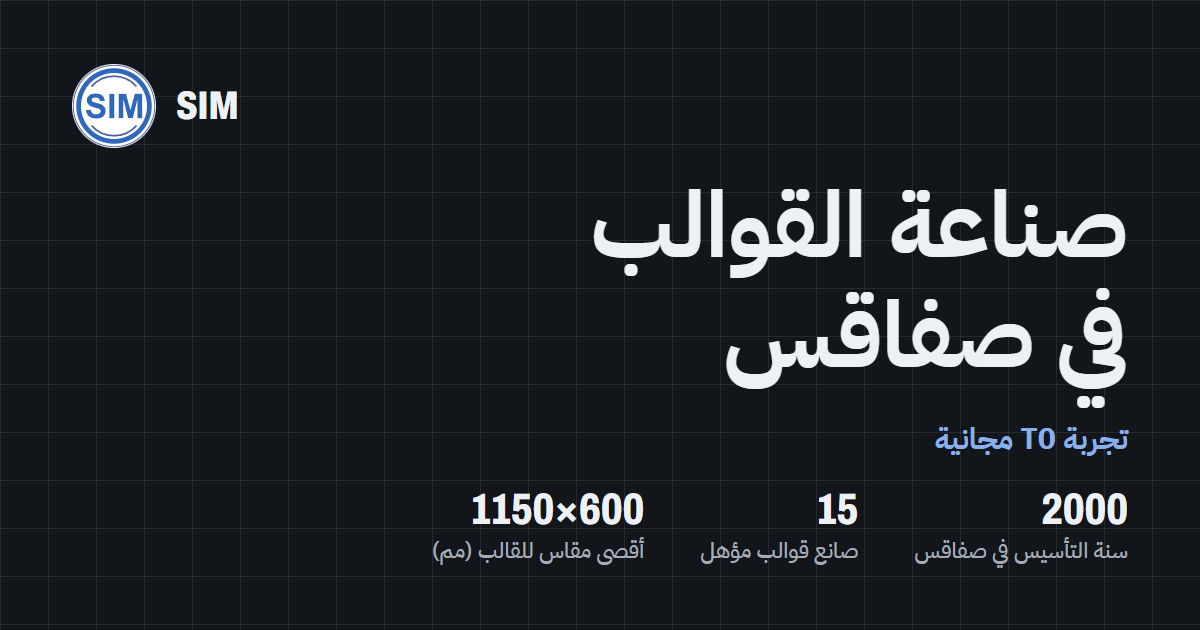
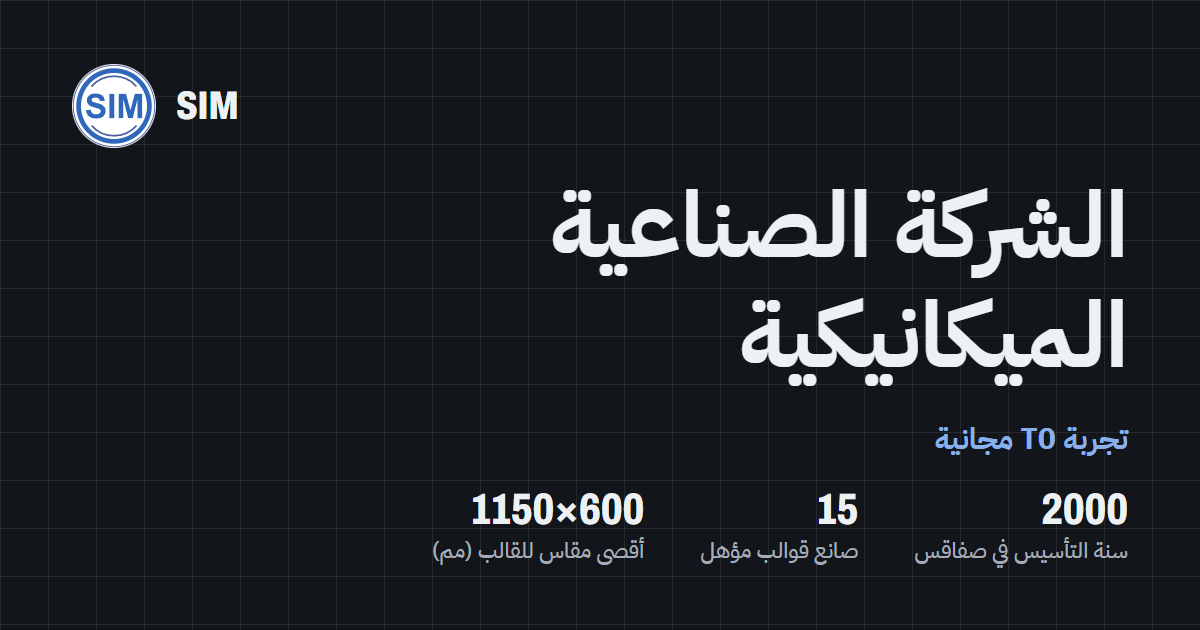
Use the company name as the home headline; simplify the process heading
- Home H1 is now Société Industrielle Mécanique (Arabic: the company
  name in Arabic); the mold-maker keyword moves into the lead sentence
  and stays in the page title.
- Remove the mold/part image frame from "Du plan à la pièce".
- Request a larger source for cover-cropped part photos, so the
  bottles tile is no longer upscaled and blurry.
- Rename the lid part to the wet-wipe lid (fr/en/ar).
- Update both share images to the new headline.

Changed region(s): [[0.4625, 0.3016, 0.9558, 0.6635]]

diff --git a/components/sections.tsx b/components/sections.tsx
@@ -285,7 +285,7 @@ export function CatalogueRows({ items, d, headingLevel = 3 }: { items: Catalogue
             {it.part && (
               <figure className="reveal reveal-2">
                 <div className="aspect-[3/2] overflow-hidden bg-white">
-                  <Photo k={it.part} alt={it.partAlt ?? ""} sizes="(min-width: 1024px) 28vw, 50vw" fit={it.partFit ?? "contain"} className="zoom-img" />
+                  <Photo k={it.part} alt={it.partAlt ?? ""} sizes={it.partFit === "cover" ? "(min-width: 1024px) 40vw, 100vw" : "(min-width: 1024px) 28vw, 50vw"} fit={it.partFit ?? "contain"} className="zoom-img" />
                 </div>
                 <figcaption className="mt-2 text-small text-muted">{d.common.part}</figcaption>
               </figure>
@@ -343,12 +343,7 @@ export function Process({ d }: { d: Dict }) {
     <section className="on-paper bg-paper text-graphite">
       <div className="px-[var(--m)] py-24 lg:py-36">
         <h2 className="display reveal text-display">
-          {p.titleStart}{" "}
-          <span className="swap" aria-hidden="true">
-            <Photo k="moldUnscrewing" alt="" sizes="160px" />
-            <Photo k="partCaps" alt="" sizes="160px" fit="contain" className="bg-white" />
-          </span>{" "}
-          {p.titleEnd}
+          {p.titleStart} {p.titleEnd}
         </h2>
         <p className="reveal reveal-2 mt-8 max-w-[52ch] text-lead text-slate">{p.intro}</p>
         <ol className="mt-16 grid gap-x-8 gap-y-12 sm:grid-cols-2 lg:mt-20 lg:grid-cols-3 xl:grid-cols-6">
@@ -508,7 +503,11 @@ export function PartsGallery({
                   <Photo
                     k={it.k}
                     alt={it.alt}
-                    sizes="(min-width: 1280px) 16vw, (min-width: 768px) 33vw, 50vw"
+                    sizes={
+                      it.fit === "cover"
+                        ? "(min-width: 1280px) 36vw, (min-width: 768px) 70vw, 100vw"
+                        : "(min-width: 1280px) 16vw, (min-width: 768px) 33vw, 50vw"
+                    }
                     fit={it.fit ?? "contain"}
                     className={`zoom-img ${it.fit === "cover" ? "" : "p-3"}`}
                   />

diff --git a/content/ar.ts b/content/ar.ts
@@ -106,8 +106,8 @@ export const ar: Dict = {
   },
 
   home: {
-    h1: "صناعة القوالب في صفاقس",
-    lead: "قوالب حقن البلاستيك وقوالب النفخ، نصمّمها ونشغّلها في ورشتنا، من الرسم إلى أول قطعة.",
+    h1: "الشركة الصناعية الميكانيكية",
+    lead: "صناعة قوالب حقن البلاستيك وقوالب النفخ، نصمّمها ونشغّلها في ورشتنا بصفاقس، من الرسم إلى أول قطعة.",
     t0Strong: "تجربة T0 مجانية",
     t0Rest: "على مكبسنا بقوة 180 طنًا: تصادق على قطع حقيقية قبل أي تعديل.",
     heroAlt: "قالب حقن بفكّ اللولبة مع محرّك وسلسلة نقل، من صنع SIM في صفاقس",
@@ -379,7 +379,7 @@ export const ar: Dict = {
     parts: [
       { image: "partValve", name: "صمّام", alt: "صمّام بلاستيكي محقون في قالب SIM" },
       { image: "partSprinkler", name: "رشّاش ري", alt: "رشّاش ري بلاستيكي متعدد القطع" },
-      { image: "partLid", name: "غطاء", alt: "غطاء بلاستيكي محقون" },
+      { image: "partLid", name: "غطاء علبة المناديل المبللة", alt: "غطاء علبة مناديل مبللة محقون" },
       { image: "cavities", name: "تجاويف متعدّدة", alt: "تشغيل إدخال بتجاويف متعدّدة" },
     ],
   },

diff --git a/app/globals.css b/app/globals.css
@@ -294,56 +294,6 @@ a:hover > .arrow-flip {
   transform: rotate(180deg);
 }
 
-/* ── Mold → part frame inside the process heading ─────────────────────── */
-
-.swap {
-  position: relative;
-  display: inline-block;
-  width: 1.9em;
-  height: 0.78em;
-  vertical-align: -0.02em;
-  overflow: hidden;
-  background: var(--color-paper-2);
-}
-
-.swap img {
-  position: absolute;
-  inset: 0;
-  width: 100%;
-  height: 100%;
-  object-fit: cover;
-}
-
-.swap img + img {
-  opacity: 0;
-}
-
-@media (prefers-reduced-motion: no-preference) {
-  .swap img {
-    animation: swap-a 7s cubic-bezier(0.65, 0, 0.35, 1) infinite;
-  }
-  .swap img + img {
-    animation-name: swap-b;
-  }
-}
-
-@media (prefers-reduced-motion: reduce) {
-  .swap img { width: 50%; }
-  .swap img + img { left: 50%; opacity: 1; }
-}
-
-@keyframes swap-a {
-  0%, 40% { opacity: 1; transform: scale(1); }
-  50%, 90% { opacity: 0; transform: scale(1.06); }
-  100% { opacity: 1; transform: scale(1); }
-}
-
-@keyframes swap-b {
-  0%, 40% { opacity: 0; transform: scale(1.06); }
-  50%, 90% { opacity: 1; transform: scale(1); }
-  100% { opacity: 0; transform: scale(1.06); }
-}
-
 /* ── Entrances (scroll-driven, CSS only; content is visible without support) */
 
 @media (prefers-reduced-motion: no-preference) {

diff --git a/content/fr.ts b/content/fr.ts
@@ -110,8 +110,8 @@ export const fr = {
   },
 
   home: {
-    h1: "Fabricant de moules à Sfax",
-    lead: "Moules d’injection plastique et de soufflage, conçus et usinés dans notre atelier, du plan à la première pièce.",
+    h1: "Société Industrielle Mécanique",
+    lead: "Fabricant de moules d’injection plastique et de soufflage, conçus et usinés dans notre atelier de Sfax, du plan à la première pièce.",
     t0Strong: "Essai T0 offert",
     t0Rest: "sur notre presse de 180 tonnes : vous validez de vraies pièces avant toute correction.",
     heroAlt: "Moule d’injection à dévissage avec motoréducteur et chaîne, fabriqué par SIM à Sfax",
@@ -465,7 +465,7 @@ export const fr = {
     parts: [
       { image: "partValve" as ImageKey, name: "Vanne", alt: "Vanne plastique injectée dans un moule SIM" },
       { image: "partSprinkler" as ImageKey, name: "Arroseur", alt: "Arroseur plastique multi-pièces injecté" },
-      { image: "partLid" as ImageKey, name: "Couvercle", alt: "Couvercle plastique injecté" },
+      { image: "partLid" as ImageKey, name: "Couvercle de lingettes", alt: "Couvercle de boîte à lingettes injecté" },
       { image: "cavities" as ImageKey, name: "Empreintes multi-cavités", alt: "Usinage d’un insert multi-empreintes" },
     ],
   },

diff --git a/content/en.ts b/content/en.ts
@@ -106,8 +106,8 @@ export const en: Dict = {
   },
 
   home: {
-    h1: "Mold maker in Sfax, Tunisia",
-    lead: "Plastic injection and blow molds, designed and machined in our own workshop, from the drawing to the first part.",
+    h1: "Société Industrielle Mécanique",
+    lead: "Mold maker for plastic injection and blow molds, designed and machined in our own workshop in Sfax, Tunisia, from the drawing to the first part.",
     t0Strong: "Free T0 trial",
     t0Rest: "on our 180-ton press: you approve real parts before any correction.",
     heroAlt: "Unscrewing injection mold with gear motor and chain drive, built by SIM in Sfax",
@@ -379,7 +379,7 @@ export const en: Dict = {
     parts: [
       { image: "partValve", name: "Valve", alt: "Plastic valve molded in a SIM mold" },
       { image: "partSprinkler", name: "Sprinkler", alt: "Multi-part molded plastic sprinkler" },
-      { image: "partLid", name: "Lid", alt: "Molded plastic lid" },
+      { image: "partLid", name: "Wet-wipe lid", alt: "Molded wet-wipe container lid" },
       { image: "cavities", name: "Multi-cavity inserts", alt: "Machining a multi-cavity insert" },
     ],
   },

diff --git a/scripts/og-ar.html b/scripts/og-ar.html
@@ -34,7 +34,7 @@
 <body>
   <div class="brand"><img src="../public/logo-sim.svg" alt=""><b>SIM</b></div>
   <div>
-    <h1>صناعة القوالب<br>في صفاقس</h1>
+    <h1>الشركة الصناعية<br>الميكانيكية</h1>
     <p class="t0">تجربة T0 مجانية</p>
   </div>
   <div class="figs">

diff --git a/lib/og.tsx b/lib/og.tsx
@@ -59,7 +59,7 @@ export async function renderOg(rawLocale: string) {
           <div
             style={{
               fontFamily: "ArchivoCondensed",
-              fontSize: 108,
+              fontSize: 88,
               lineHeight: 0.92,
               textTransform: "uppercase",
               letterSpacing: -2,

diff --git a/DESIGN.md b/DESIGN.md
@@ -126,7 +126,7 @@ components:
 
 SIM speaks the way a standard-components catalogue speaks: reference codes per mold type, spec tables, numbered callouts on a photo, dimension lines around the part, figures in a monospaced face. The site is that catalogue, set on a graphite ground with steel panels, one blue accent and square, flat surfaces. Proof comes from measured photographs and figures, never from decoration.
 
-Density is a working document's density: long pages in a 12-column grid, generous section padding, prose held to a short measure, and figures large enough to read from across a workshop. Long pages alternate graphite and pale steel "paper" bands, so the read has a dark/light rhythm while graphite stays the page ground. Motion is restrained: scroll-driven entrances, a slow mold-to-part crossfade inside one heading, a once-per-session logo draw, all removed under reduced motion.
+Density is a working document's density: long pages in a 12-column grid, generous section padding, prose held to a short measure, and figures large enough to read from across a workshop. Long pages alternate graphite and pale steel "paper" bands, so the read has a dark/light rhythm while graphite stays the page ground. Motion is restrained: scroll-driven entrances and a once-per-session logo draw, all removed under reduced motion.
 
 The system is trilingual (French first, English, Arabic RTL). Every direction-sensitive rule is written with logical properties, and Arabic gets its own type behaviour rather than an imitation of the Latin display.
 
@@ -250,8 +250,8 @@ A hairline-topped row per mold family: mono reference code in its own column (in
 ### T0 Band
 The one full-bleed SIM Blue field: uppercase display title, lead, square white bullets, light and quiet buttons, and the 180-t press photo with its tonnage as a mono figure.
 
-### Process with Mold-to-Part Frame
-A paper band whose display heading carries an inline frame (1.9em by 0.78em) that crossfades between the mold and the part it makes every 7s; under reduced motion both images sit side by side. Six steps follow with 2px top rules and mono numbers, the T0 step in SIM Blue with a 4px rule.
+### Process
+A paper band with a plain display heading ("Du plan à la pièce"; the owner asked for no image inside it). Six steps follow with 2px top rules and mono numbers, the T0 step in SIM Blue with a 4px rule.
 
 ### Spec Table and FAQ
 Tables are hairline rows, muted row labels at 42% width, mono values at Title size with units in muted. The FAQ is a list of native details elements on hairlines, questions at Lead size, a chevron that turns 180° in 200ms.

diff --git a/.impeccable/surfaces/app-locale-page-tsx.md b/.impeccable/surfaces/app-locale-page-tsx.md
@@ -17,15 +17,17 @@ THESIS: SIM is presented as its own technical datasheet: a standard-components-c
 
 OWN-WORLD: Graphite ground (#121519) with a steel panel step (#1B2026), steel ink (#EEF1F4), and SIM blue (#2F67BA) as the one accent, on actions and the T0 offer. Fine 48px drawing grid only in the hero and the datasheet bands. Dimension lines in muted steel. Archivo (semi-condensed for display, uppercase headlines), JetBrains Mono for spec figures only, IBM Plex Sans Arabic for ar. Square corners and flat fills, no shadows.
 
-STORY: The visitor sees "Fabricant de moules à Sfax", believes it from the measured photo and the figures, learns the T0 trial is free, then follows the process (plan → CAO → usinage → montage/polissage → essai T0 → livraison) to a quote.
+STORY: The visitor sees the company name "Société Industrielle Mécanique" over "Fabricant de moules … à Sfax", believes it from the measured photo and the figures, learns the T0 trial is free, then follows the process (plan → CAO → usinage → montage/polissage → essai T0 → livraison) to a quote.
 
 FIRST VIEWPORT: Left 5/12: two- or three-line uppercase H1, lead sentence, T0 line in blue, primary button plus WhatsApp. Right 7/12: the unscrewing-mold photo framed by max-size dimension lines. Bottom: a full-width datasheet strip of six mono figures.
 
-FORM: assigned candidate 5 of 7 (standard-components catalogue), seed f615cbcd. Raise from Taste's "sentence-as-layout" (the user chose "A with B's frame"): the mold → part inline frame returns as the signature moment of the "Du plan à la pièce" process section.
+FORM: assigned candidate 5 of 7 (standard-components catalogue), seed f615cbcd. Raise from Taste's "sentence-as-layout" (the user chose "A with B's frame"): the mold → part inline frame was the signature of the process section; the owner later asked for it to be removed (2026-10-26), so the heading is plain type.
 
 FINISH: unreviewed and undocumented is unfinished; this build ends with the finish review, the verdict, DESIGN.md, and every shipping raster carrying its provenance
 
 ## Cited adaptations (after the finish review)
+
+- Owner request (2026-10-26): home H1 is the company name "Société Industrielle Mécanique" (three lines in fr), the keyword moves to the lead and the <title>.
 
 - Home first viewport is a 6/12 + 6/12 split (not 5/12): at 5 columns the H1 wrapped to three lines; 6 keeps it on two (Taste house rule, a builder decision) while the photo, its callouts and the six-figure strip stay inside 1440x900.
 
